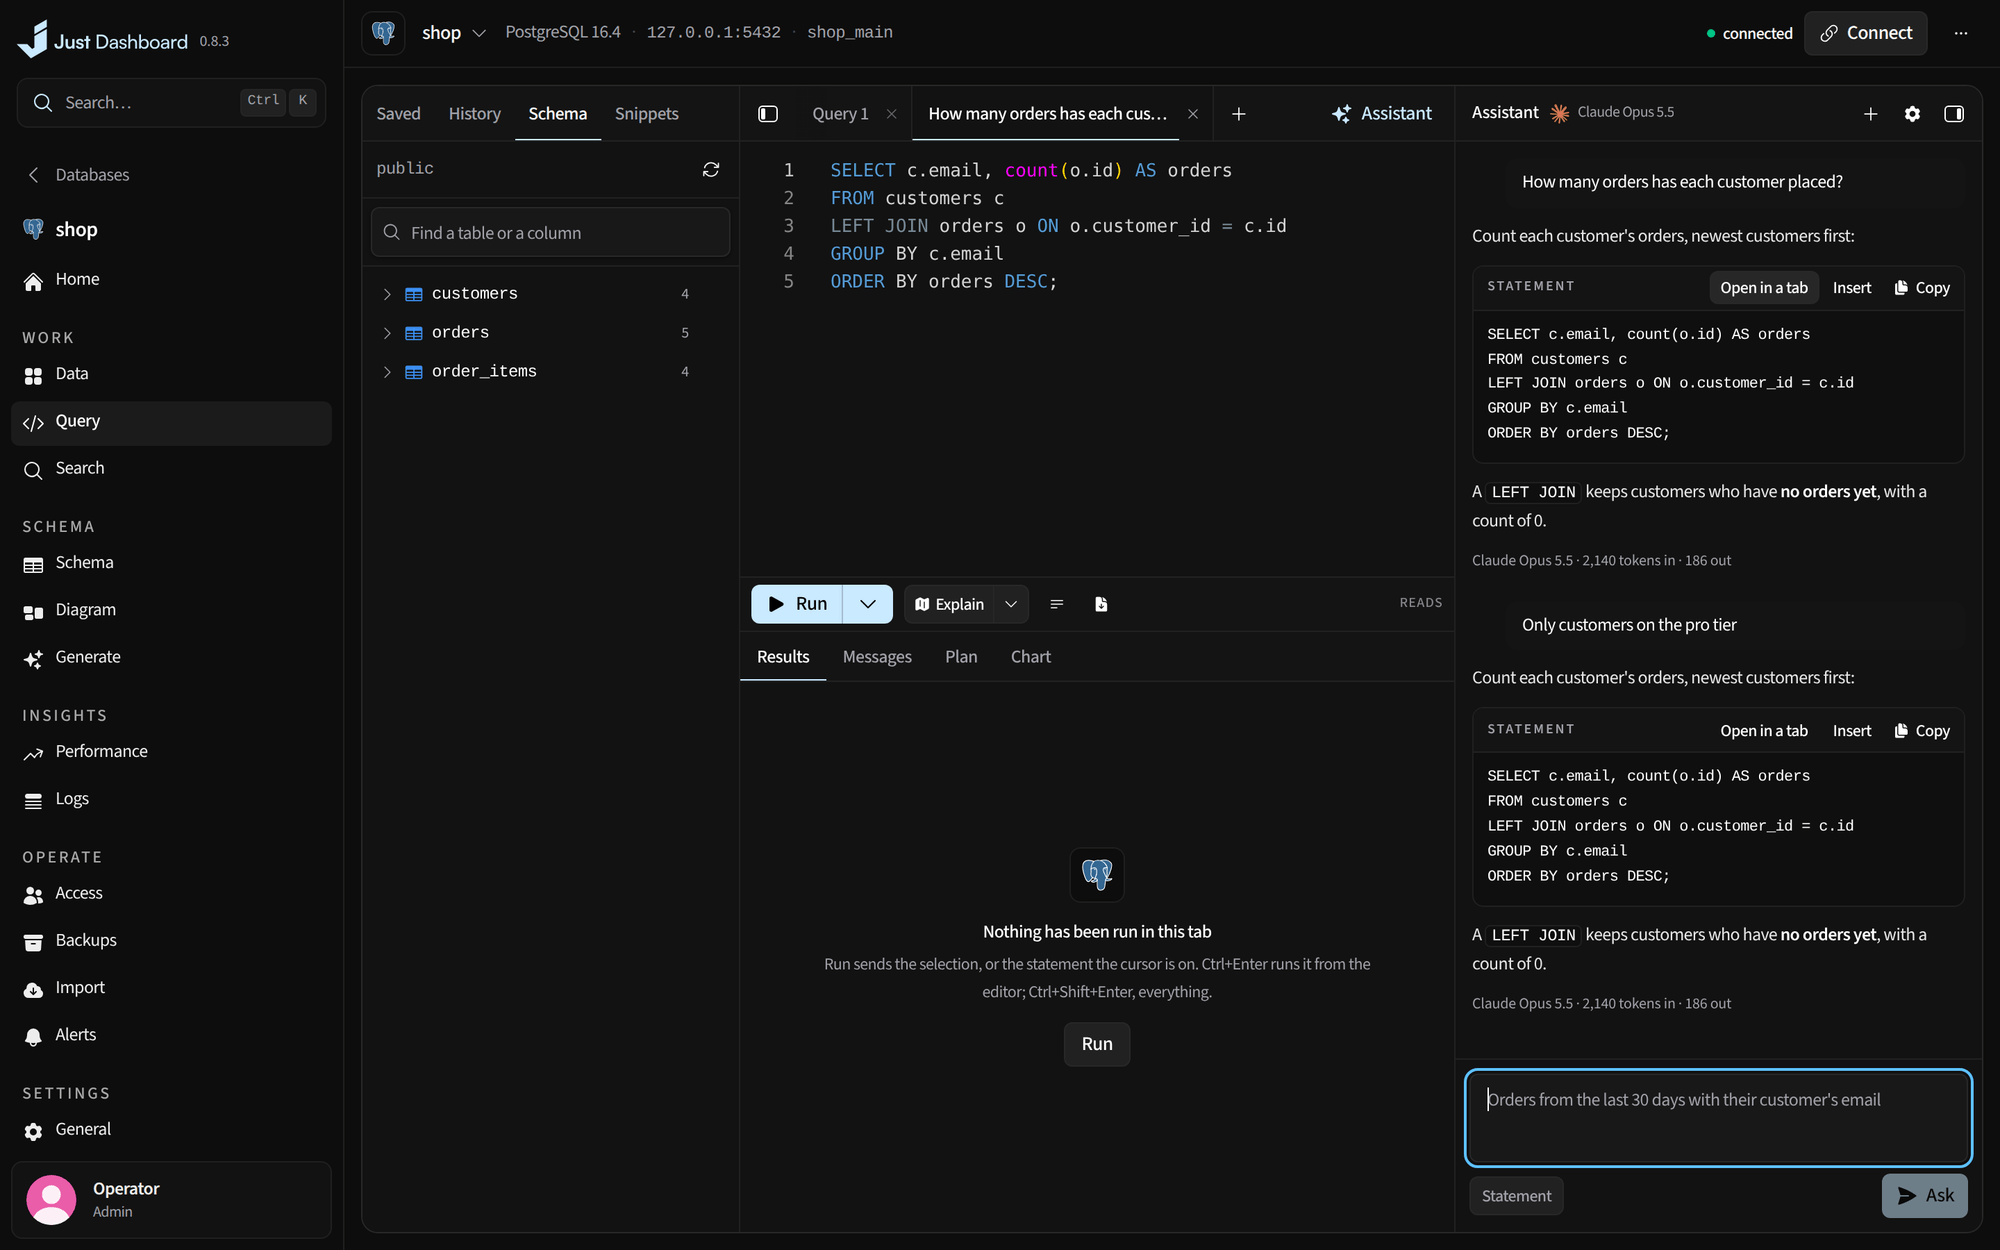
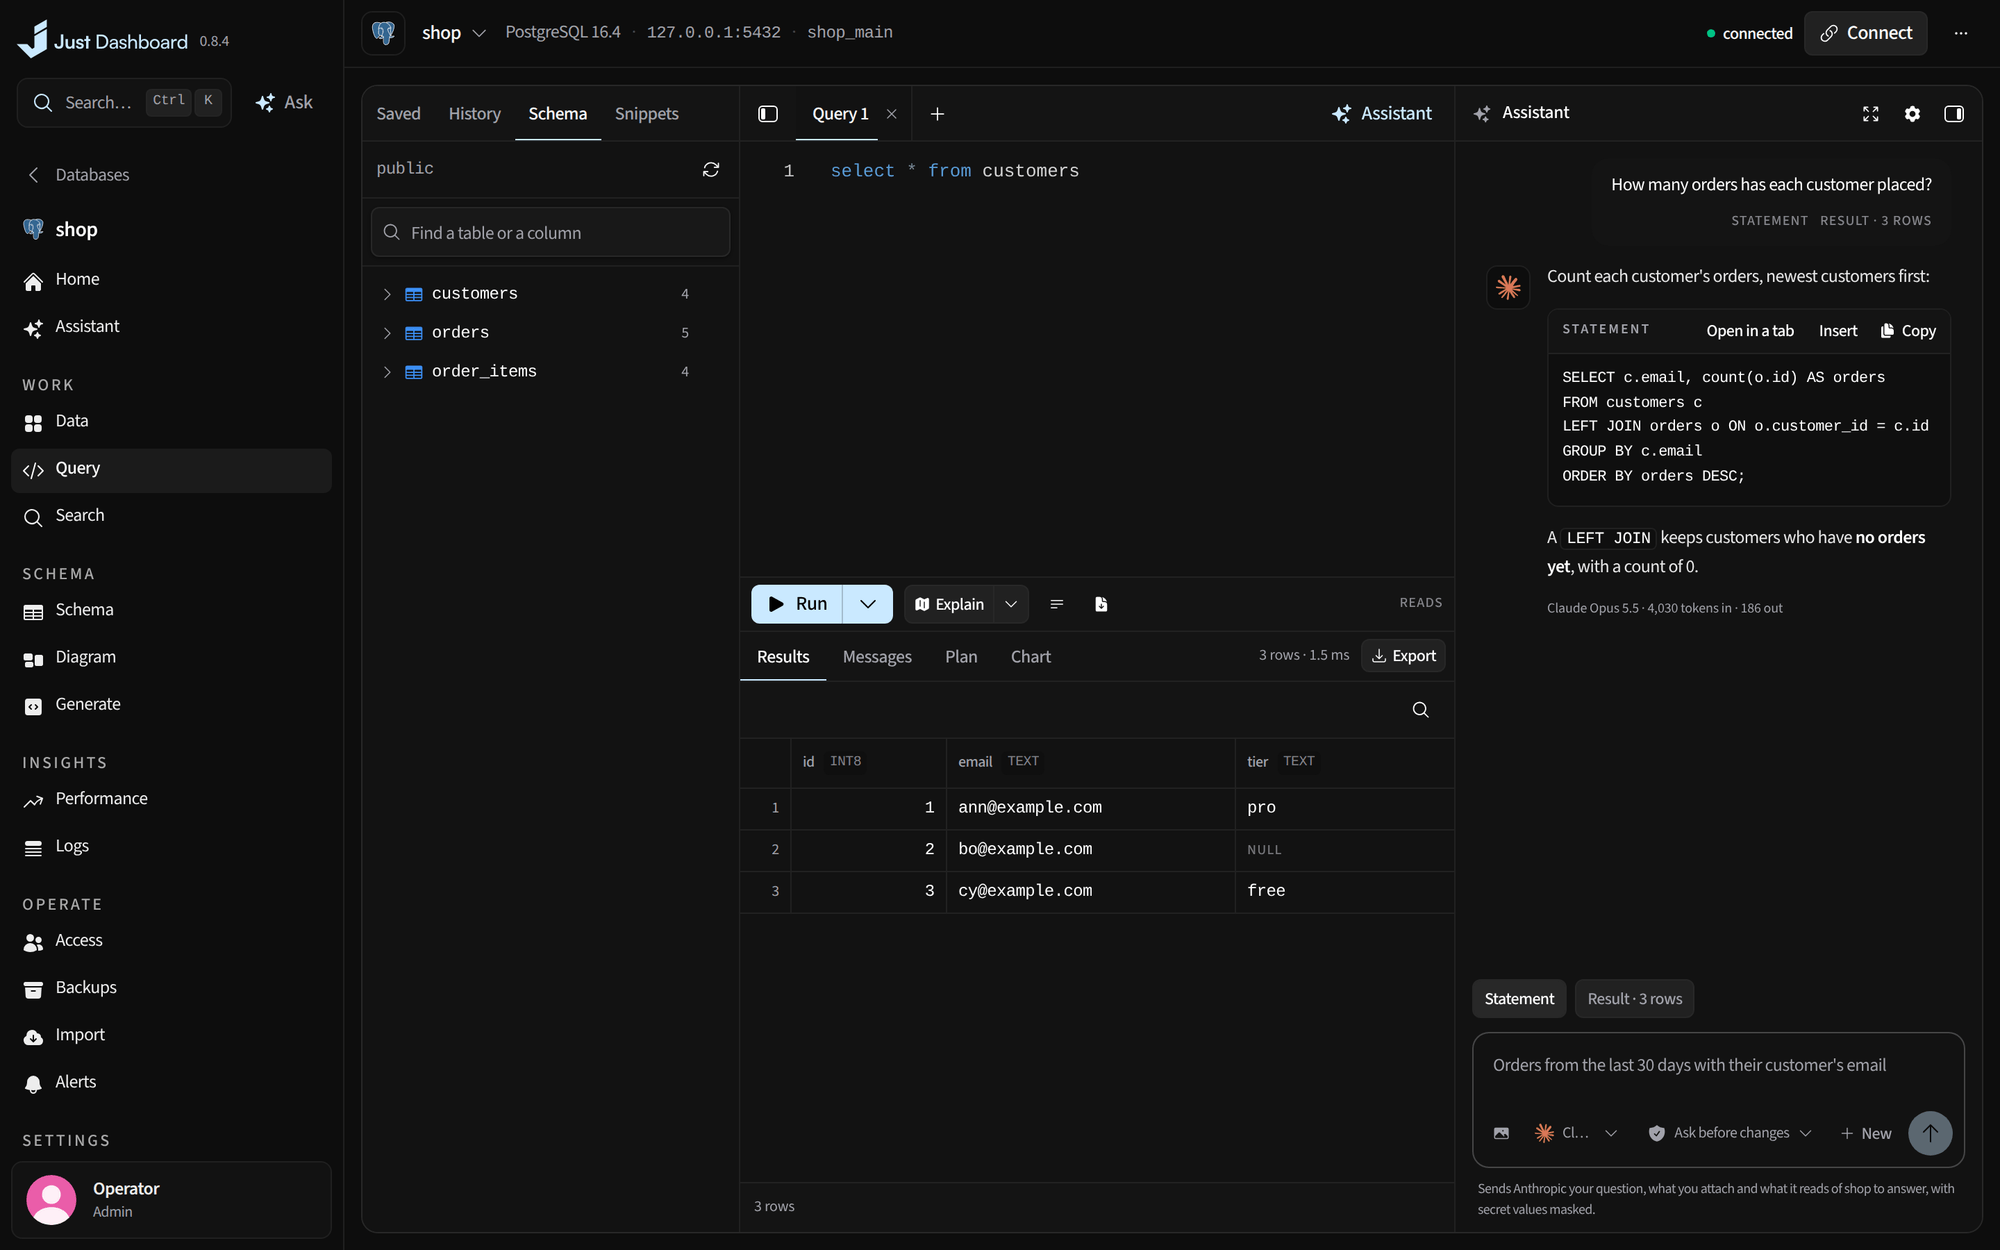
Show the database's assistant as it is now in its feature page

diff --git a/docs/features/databases.md b/docs/features/databases.md
@@ -23,8 +23,8 @@ A control center for every database on the server, even the ones nothing has con
 <table>
 <tr>
 <td width="50%" valign="top">
-<a href="../readme/database-assistant.png"><img src="../readme/database-assistant.png" alt="The SQL editor with the assistant beside it, answering with statements to open or insert"></a>
-<p align="center"><b>SQL assistant</b><br><sub>Ask for a statement, an error or a plan explained</sub></p>
+<a href="../readme/database-assistant.png"><img src="../readme/database-assistant.png" alt="The SQL editor with the assistant beside it: the statement and its result attached, and an answer whose statement opens in a tab or is inserted"></a>
+<p align="center"><b>The assistant</b><br><sub>Its own page, and beside the SQL editor with what you attach</sub></p>
 </td>
 <td width="50%" valign="top">
 <a href="../readme/database-explain.png"><img src="../readme/database-explain.png" alt="A measured plan with a hash join and a sequential scan flagged as misjudged"></a>
